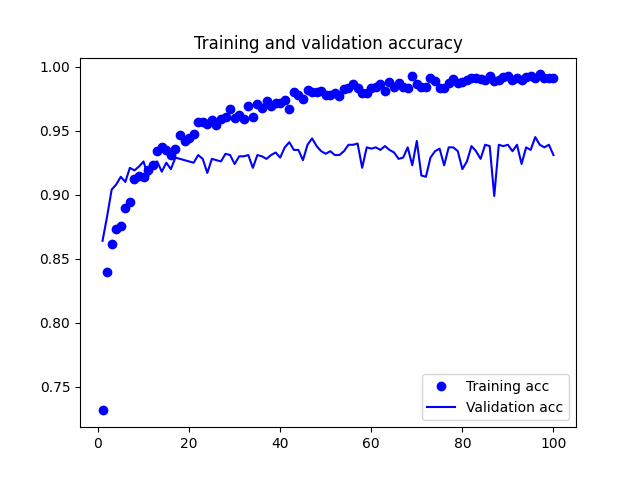
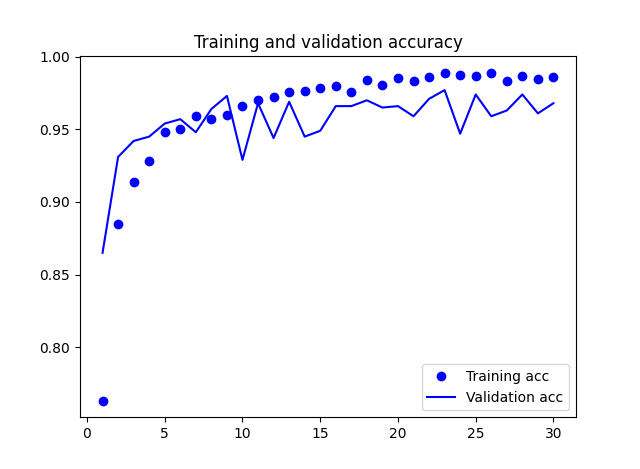
dlp_5.3.1 train with pretrained weights with finetuning

diff --git a/dlp_5.3.1_train_with_pretrained_weights_and_data_augmentation.py b/dlp_5.3.1_train_with_pretrained_weights_and_data_augmentation.py
@@ -5,12 +5,12 @@ from numpy.lib.histograms import histogram
 from keras.applications import VGG16
 from keras.preprocessing.image import ImageDataGenerator
 import tensorflow as tf
-# config = tf.compat.v1.ConfigProto()
-# config.gpu_options.allow_growth = True
-# sess = tf.compat.v1.Session(config=config)
-# sess.as_default()
+config = tf.compat.v1.ConfigProto()
+config.gpu_options.allow_growth = True
+sess = tf.compat.v1.Session(config=config)
+sess.as_default()
 
-os.environ['CUDA_VISIBLE_DEVICES'] = '-1'
+os.environ['CUDA_VISIBLE_DEVICES'] = '0,1'
 if tf.test.gpu_device_name():
     print('GPU found')
 else:

diff --git a/dlp_5.3.1_train_with_pretrained_weights_with_finetuning.py b/dlp_5.3.1_train_with_pretrained_weights_with_finetuning.py
@@ -5,12 +5,12 @@ from numpy.lib.histograms import histogram
 from keras.applications import VGG16
 from keras.preprocessing.image import ImageDataGenerator
 import tensorflow as tf
-# config = tf.compat.v1.ConfigProto()
-# config.gpu_options.allow_growth = True
-# sess = tf.compat.v1.Session(config=config)
-# sess.as_default()
+config = tf.compat.v1.ConfigProto()
+config.gpu_options.allow_growth = True
+sess = tf.compat.v1.Session(config=config)
+sess.as_default()
 
-os.environ['CUDA_VISIBLE_DEVICES'] = '-1'
+os.environ['CUDA_VISIBLE_DEVICES'] = '0,1'
 if tf.test.gpu_device_name():
     print('GPU found')
 else:

diff --git a/README.md b/README.md
@@ -408,6 +408,7 @@ Epoch 30/30
 ```
 
 #### Output
+##### acc: 0.9735, val_cc: 0.9100
 It reached a validation accuracy of about 91%.
 We used dropout but still we got overfitting almost from the start. 
 That's because this technique doesn't use data augmentation.
@@ -422,7 +423,7 @@ This technique is much slower and more expensive but allows to use data augmenta
 `$ python dlp_5.3.1_train_with_pretrained_weights_and_data_augmentation.py`
 
 #### Output
-
+##### acc: 0.9890, val_cc: 0.9660
 ![alt text](https://github.com/martianvenusian/dlp/blob/main/images/dlp_5.3.1_train_with_pretrained_weights_and_data_augmentation_1.png?raw=true)
 ![alt text](https://github.com/martianvenusian/dlp/blob/main/images/dlp_5.3.1_train_with_pretrained_weights_and_data_augmentation_2.png?raw=true)
 
